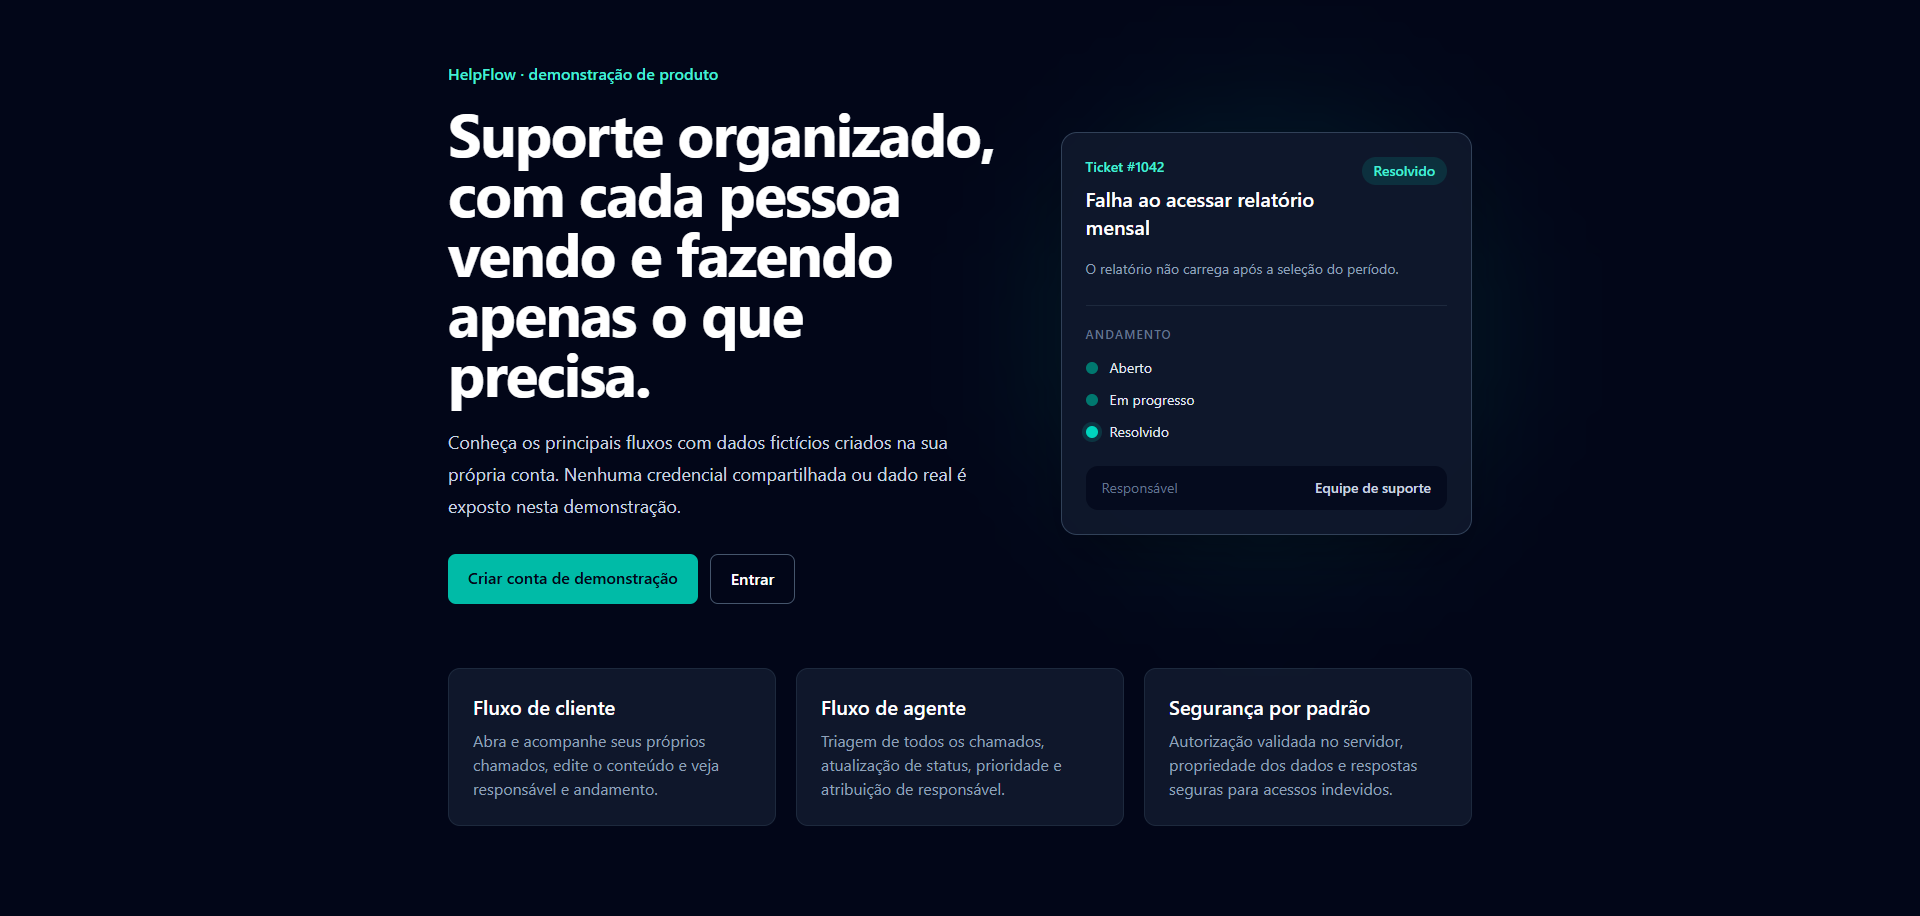
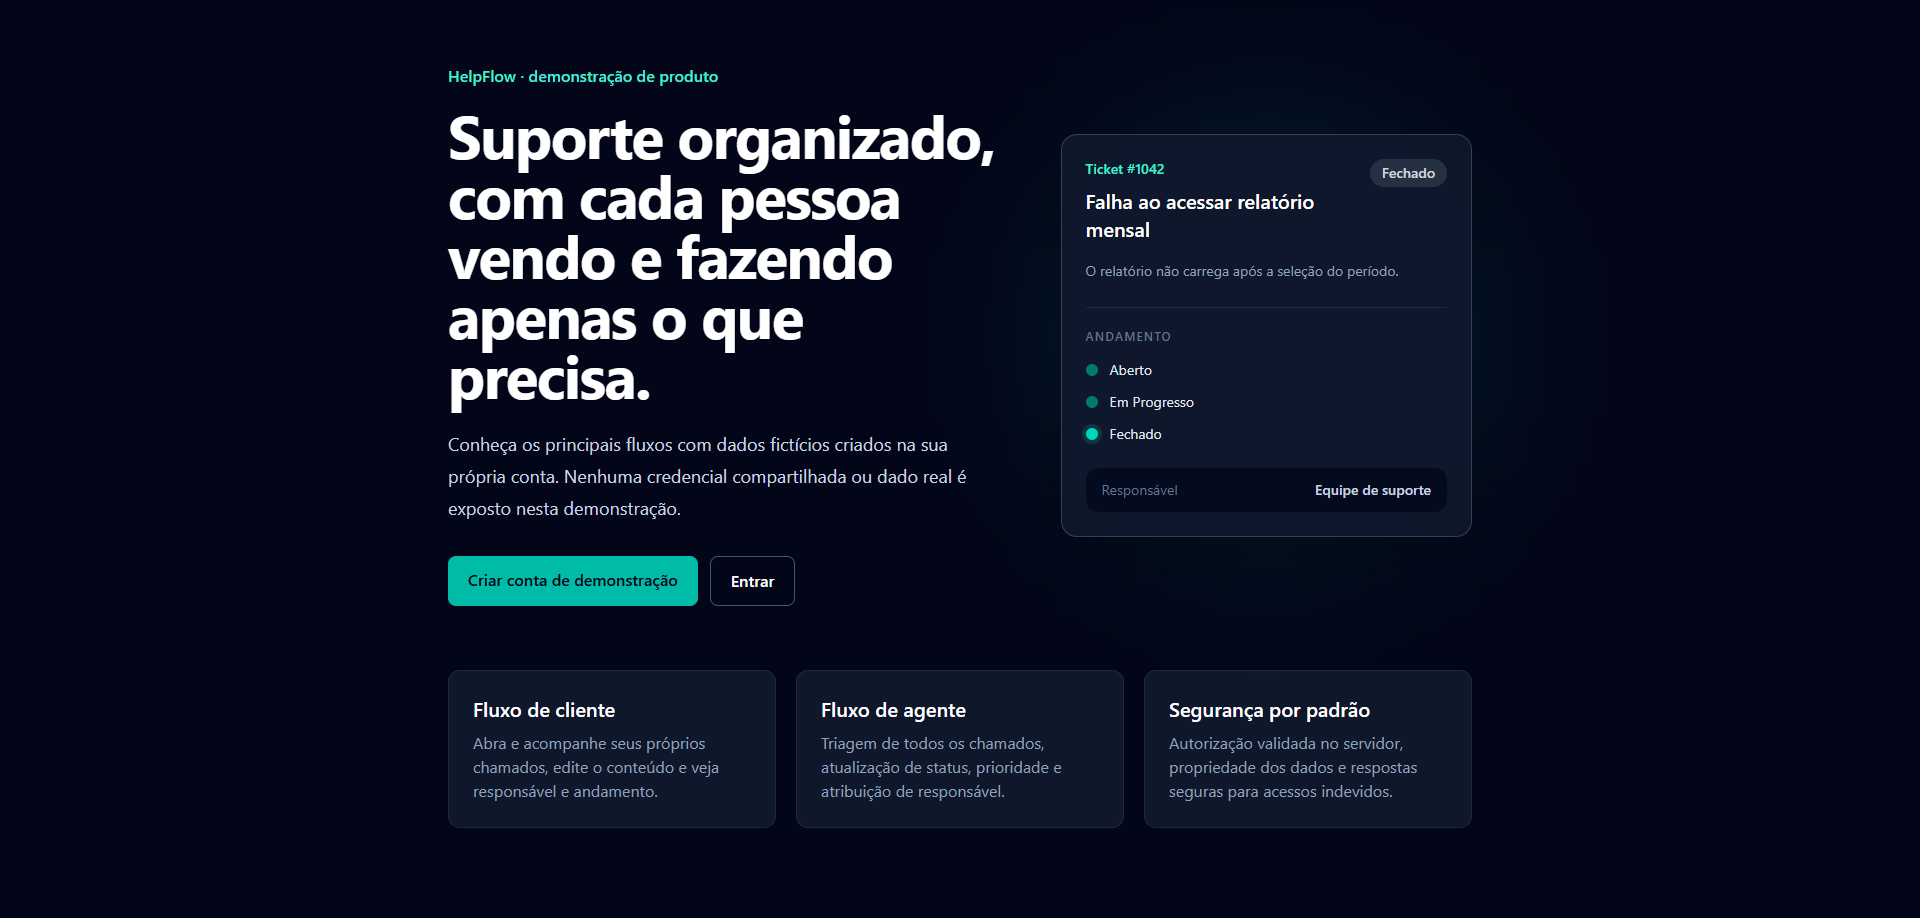
fix: reforça segurança e alinha demonstração ao produto (#47)
* fix: reforça segurança no cadastro e na redefinição de senha

* fix: alinha demonstração aos status do produto

diff --git a/src/app/components/DemoTicketFlow.jsx b/src/app/components/DemoTicketFlow.jsx
@@ -7,24 +7,23 @@ import {
     stagger,
     utils,
 } from "animejs";
+import {
+    DEMO_TICKET_STATUS_SEQUENCE,
+    getDemoInitialStep,
+} from "@/lib/demoTicketFlow";
+import {
+    getStatusBadgeClasses,
+    getStatusDisplayNamePT,
+} from "@/lib/ticketUtils";
 
-const statuses = [
-    {
-        label: "Aberto",
-        badgeClasses: "bg-emerald-500/15 text-emerald-300",
-    },
-    {
-        label: "Em progresso",
-        badgeClasses: "bg-amber-500/15 text-amber-300",
-    },
-    {
-        label: "Resolvido",
-        badgeClasses: "bg-teal-500/15 text-teal-300",
-    },
-];
+const statuses = DEMO_TICKET_STATUS_SEQUENCE.map((status) => ({
+    code: status,
+    label: getStatusDisplayNamePT(status),
+    badgeClasses: getStatusBadgeClasses(status),
+}));
 
 export default function DemoTicketFlow() {
-    const [currentStep, setCurrentStep] = useState(0);
+    const [currentStep, setCurrentStep] = useState(() => getDemoInitialStep(false));
     const rootRef = useRef(null);
 
     useLayoutEffect(() => {
@@ -33,6 +32,7 @@ export default function DemoTicketFlow() {
         ).matches;
 
         if (prefersReducedMotion) {
+            setCurrentStep(getDemoInitialStep(true));
             return undefined;
         }
 
@@ -89,7 +89,10 @@ export default function DemoTicketFlow() {
             className="relative mx-auto w-full max-w-md"
             aria-labelledby="demo-ticket-title"
         >
-            <div className="absolute -inset-6 rounded-full bg-teal-500/10 blur-3xl" />
+            <div
+                className="absolute -inset-6 rounded-full bg-teal-500/10 blur-3xl"
+                aria-hidden="true"
+            />
 
             <div
                 data-ticket-card
@@ -112,6 +115,9 @@ export default function DemoTicketFlow() {
                     <span
                         data-ticket-badge
                         className={`rounded-full px-3 py-1 text-sm font-semibold transition-colors duration-300 ${statuses[currentStep].badgeClasses}`}
+                        role="status"
+                        aria-live="polite"
+                        aria-atomic="true"
                     >
                         {statuses[currentStep].label}
                     </span>
@@ -133,8 +139,9 @@ export default function DemoTicketFlow() {
 
                             return (
                                 <li
-                                    key={status.label}
+                                    key={status.code}
                                     data-flow-step
+                                    aria-current={isCurrent ? "step" : undefined}
                                     className={`flex items-center gap-3 text-sm transition-colors duration-300 ${isCurrent || isCompleted
                                         ? "text-slate-200"
                                         : "text-slate-400"
@@ -149,7 +156,16 @@ export default function DemoTicketFlow() {
                                             }`}
                                     />
 
-                                    <span>{status.label}</span>
+                                    <span>
+                                        <span className="sr-only">
+                                            {isCurrent
+                                                ? "Etapa atual: "
+                                                : isCompleted
+                                                    ? "Etapa concluída: "
+                                                    : "Próxima etapa: "}
+                                        </span>
+                                        {status.label}
+                                    </span>
                                 </li>
                             );
                         })}

diff --git a/src/lib/__tests__/passwordReset.test.js b/src/lib/__tests__/passwordReset.test.js
@@ -1,0 +1,62 @@
+import { describe, expect, it, vi } from 'vitest';
+import {
+  PasswordResetUnavailableError,
+  updatePasswordWithResetToken,
+} from '../passwordReset';
+
+function createPrismaMock(claimedCount) {
+  const transaction = {
+    passwordReset: {
+      updateMany: vi.fn().mockResolvedValue({ count: claimedCount }),
+    },
+    user: {
+      update: vi.fn().mockResolvedValue({}),
+    },
+  };
+
+  return {
+    prisma: {
+      $transaction: vi.fn((callback) => callback(transaction)),
+    },
+    transaction,
+  };
+}
+
+describe('consumo do token de redefinição de senha', () => {
+  it('consome o token antes de atualizar a senha', async () => {
+    const { prisma, transaction } = createPrismaMock(1);
+    const now = new Date('2026-08-07T12:00:00.000Z');
+
+    await updatePasswordWithResetToken({
+      prisma,
+      passwordReset: { id: 'reset-1', userId: 'user-1' },
+      hashedPassword: 'hash-seguro',
+      now,
+    });
+
+    expect(transaction.passwordReset.updateMany).toHaveBeenCalledWith({
+      where: {
+        id: 'reset-1',
+        used: false,
+        expiresAt: { gt: now },
+      },
+      data: { used: true },
+    });
+    expect(transaction.user.update).toHaveBeenCalledWith({
+      where: { id: 'user-1' },
+      data: { password_hash: 'hash-seguro' },
+    });
+  });
+
+  it('rejeita uma tentativa concorrente sem alterar a senha', async () => {
+    const { prisma, transaction } = createPrismaMock(0);
+
+    await expect(updatePasswordWithResetToken({
+      prisma,
+      passwordReset: { id: 'reset-1', userId: 'user-1' },
+      hashedPassword: 'outro-hash',
+    })).rejects.toBeInstanceOf(PasswordResetUnavailableError);
+
+    expect(transaction.user.update).not.toHaveBeenCalled();
+  });
+});

diff --git a/src/app/api/auth/reset-password/route.js b/src/app/api/auth/reset-password/route.js
@@ -1,6 +1,10 @@
 import { NextResponse } from 'next/server';
 import bcrypt from 'bcryptjs';
 import prisma from '@/lib/prisma';
+import {
+    PasswordResetUnavailableError,
+    updatePasswordWithResetToken,
+} from '@/lib/passwordReset';
 import { resetPasswordSchema } from '@/lib/schemas';
 
 export async function POST(req) {
@@ -35,20 +39,22 @@ export async function POST(req) {
         const hashedPassword = await bcrypt.hash(password, 10);
 
         // Transação garante que ambas as operações ocorram juntas
-        await prisma.$transaction([
-            prisma.user.update({
-                where: { id: passwordReset.userId },
-                data: { password_hash: hashedPassword },
-            }),
-            prisma.passwordReset.update({
-                where: { id: passwordReset.id },
-                data: { used: true },
-            }),
-        ]);
+        await updatePasswordWithResetToken({
+            prisma,
+            passwordReset,
+            hashedPassword,
+        });
 
         return NextResponse.json({ message: 'Senha redefinida com sucesso.' });
 
     } catch (error) {
+        if (error instanceof PasswordResetUnavailableError) {
+            return NextResponse.json(
+                { message: 'Este token já foi utilizado ou expirou. Solicite um novo.' },
+                { status: 400 }
+            );
+        }
+
         return NextResponse.json({ message: 'Erro interno do servidor.' }, { status: 500 });
     }
 }

diff --git a/src/lib/passwordReset.js b/src/lib/passwordReset.js
@@ -1,0 +1,28 @@
+export class PasswordResetUnavailableError extends Error {}
+
+export async function updatePasswordWithResetToken({
+  prisma,
+  passwordReset,
+  hashedPassword,
+  now = new Date(),
+}) {
+  await prisma.$transaction(async (transaction) => {
+    const claimedReset = await transaction.passwordReset.updateMany({
+      where: {
+        id: passwordReset.id,
+        used: false,
+        expiresAt: { gt: now },
+      },
+      data: { used: true },
+    });
+
+    if (claimedReset.count !== 1) {
+      throw new PasswordResetUnavailableError();
+    }
+
+    await transaction.user.update({
+      where: { id: passwordReset.userId },
+      data: { password_hash: hashedPassword },
+    });
+  });
+}

diff --git a/src/lib/__tests__/registrationRole.test.js b/src/lib/__tests__/registrationRole.test.js
@@ -12,11 +12,22 @@ describe('papel no cadastro', () => {
       requestedRole: 'AGENT',
       testSecret: 'correto',
       configuredTestSecret: 'correto',
+      environment: 'test',
     })).toBe('AGENT');
     expect(resolveRegistrationRole({
       requestedRole: 'AGENT',
       testSecret: 'errado',
       configuredTestSecret: 'correto',
+      environment: 'test',
+    })).toBe('CLIENT');
+  });
+
+  it('nunca permite criar AGENT em produção', () => {
+    expect(resolveRegistrationRole({
+      requestedRole: 'AGENT',
+      testSecret: 'correto',
+      configuredTestSecret: 'correto',
+      environment: 'production',
     })).toBe('CLIENT');
   });
 });

diff --git a/src/lib/__tests__/demoTicketFlow.test.js b/src/lib/__tests__/demoTicketFlow.test.js
@@ -1,0 +1,23 @@
+import { describe, expect, it } from 'vitest';
+import {
+  DEMO_TICKET_STATUS_SEQUENCE,
+  getDemoInitialStep,
+} from '../demoTicketFlow';
+
+describe('fluxo demonstrativo de tickets', () => {
+  it('usa a mesma sequência de status do produto', () => {
+    expect(DEMO_TICKET_STATUS_SEQUENCE).toEqual([
+      'OPEN',
+      'IN_PROGRESS',
+      'CLOSED',
+    ]);
+  });
+
+  it('começa aberto quando animações são permitidas', () => {
+    expect(getDemoInitialStep(false)).toBe(0);
+  });
+
+  it('mostra o resultado final quando o movimento é reduzido', () => {
+    expect(getDemoInitialStep(true)).toBe(2);
+  });
+});

diff --git a/src/lib/registrationRole.js b/src/lib/registrationRole.js
@@ -1,6 +1,12 @@
-export function resolveRegistrationRole({ requestedRole, testSecret, configuredTestSecret }) {
+export function resolveRegistrationRole({
+  requestedRole,
+  testSecret,
+  configuredTestSecret,
+  environment,
+}) {
   const canCreateAgent = Boolean(
-    configuredTestSecret
+    environment !== 'production'
+    && configuredTestSecret
     && testSecret === configuredTestSecret
     && requestedRole === 'AGENT'
   );

diff --git a/src/app/api/register/route.js b/src/app/api/register/route.js
@@ -59,6 +59,7 @@ export async function POST(req) {
             requestedRole: role,
             testSecret,
             configuredTestSecret: process.env.CYPRESS_TEST_SECRET,
+            environment: process.env.NODE_ENV,
         });
 
         const newUser = await prisma.user.create({

diff --git a/src/lib/demoTicketFlow.js b/src/lib/demoTicketFlow.js
@@ -1,0 +1,9 @@
+export const DEMO_TICKET_STATUS_SEQUENCE = [
+  'OPEN',
+  'IN_PROGRESS',
+  'CLOSED',
+];
+
+export function getDemoInitialStep(prefersReducedMotion) {
+  return prefersReducedMotion ? DEMO_TICKET_STATUS_SEQUENCE.length - 1 : 0;
+}
